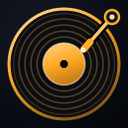
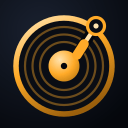
A tela dizia "(não existe)" sem saber, e o ícone sumia dentro da máscara
O DIAGNÓSTICO. A estante vazia afirmava "(não existe)" para toda pasta que
não abrisse. "Não existe" e "sem permissão" pedem consertos OPOSTOS, e a
tela mandava procurar a pasta que já está lá. O sceIoDopen devolve um
código dizendo qual é, e nós o jogávamos fora.

Agora ele é guardado e mostrado, com nome e número — 0x80010002 não
existe, 0x8001000D sem permissão, 0x80010013 só leitura. E, mais decisivo:
a tela sonda o DISPOSITIVO. Se `ux0:` abre e `ux0:music` não, a pasta é que
não está lá; se nem `ux0:` abre, o problema não tem relação com música e
nenhuma mudança de pasta conserta. As duas se parecem na tela e pedem
consertos sem relação nenhuma, então a tela passa a separá-las — e lista o
que viu na raiz, que responde sozinho se a pasta existe.

Isto foi escrito porque o relatório em arquivo NÃO apareceu no cartão: se
gravar falha, a tela precisa bastar.

O ÍCONE. Gerei três direções, mascarei em círculo como o sistema faz e
olhei no tamanho REAL da bolha (~60 px). O que a comparação mostrou:
o pivô do braço ficava fora do círculo e era cortado pela metade, e a
60 px traço fino e aro fino somem. O novo tem o disco com 16 px de folga
até a borda, o braço inteiro dentro do raio que a máscara preserva, aro
grosso e rótulo grande. Vinil continua preto — o contraste vem do aro e
do rótulo, que é onde a luz pega num disco.

A LIVEAREA ganhou profundidade (brilho quente, vinheta, o braço) em vez
do disco chapado, e o nome perdeu a caixa inconsistente: era "STYLUS
[…]

diff --git a/src/ui.c b/src/ui.c
@@ -1,4 +1,5 @@
 #include "ui.h"
+#include "fsutil.h"
 #include "paths.h"
 #include "ui_layout.h"
 #include "sides.h"
@@ -773,13 +774,60 @@ static void shelf_empty(Ui *u, Library *lib)
     int y = 218;
     for (int i = 0; i < lib->nroots && i < 6; i++) {
         char line[MAX_PATH_LEN + 32];
-        snprintf(line, sizeof(line), "%s   %s", lib->roots[i].path,
-                 lib->roots[i].opened ? "(abriu)" : "(não existe)");
+        /* NÃO diz "não existe" sem saber: "não existe" e "sem permissão"
+           pedem consertos opostos, e a tela mandava procurar a pasta que já
+           estava lá. Agora mostra o que o sistema respondeu, com o código —
+           que é o que dá para me repassar quando nada mais explica. */
+        if (lib->roots[i].opened)
+            snprintf(line, sizeof(line), "%s   (abriu)", lib->roots[i].path);
+        else
+            snprintf(line, sizeof(line), "%s   %s  [0x%08X]",
+                     lib->roots[i].path, scan_err_str(lib->roots[i].err),
+                     (unsigned)lib->roots[i].err);
         text_elided(u, (int)PAD_X + 12, y, lib->roots[i].opened ? COL_TEXT : COL_TEXT_FAINT,
                     0.54f, SCRW - 2 * PAD_X - 12, line);
         y += 22;
     }
-    y += 14;
+    /* A PERGUNTA DECISIVA, respondida na tela: o DISPOSITIVO abre?
+
+       Se `ux0:` abre e `ux0:music` não, a pasta é que não está lá. Se nem
+       `ux0:` abre, o problema não tem nada a ver com música — é o caminho
+       inteiro, e nenhuma mudança de pasta conserta. As duas coisas se
+       parecem na tela ("não achou nada") e pedem consertos que não têm
+       relação, então a tela passa a separá-las.
+
+       E LISTA o que viu ali: se o app enxerga "app", "data", "music" na
+       raiz, a pasta existe e o problema é outro. */
+    y += 12;
+    {
+        int e = 0;
+        DirIter *dev = dir_open_err("ux0:", &e);
+        if (!dev) {
+            char l[160];
+            snprintf(l, sizeof(l), "ux0: (o cartão) tambem NAO abre: %s  [0x%08X]",
+                     scan_err_str(e), (unsigned)e);
+            text_elided(u, (int)PAD_X, y, COL_ALARM, 0.55f, SCRW - 2 * PAD_X, l);
+            y += 22;
+        } else {
+            char l[420];
+            size_t n = (size_t)snprintf(l, sizeof(l), "ux0: abre, e tem: ");
+            const char *nome;
+            int isdir, vistos = 0;
+            while (vistos < 8 && dir_next(dev, &nome, &isdir)) {
+                if (nome[0] == '.') continue;
+                n += (size_t)snprintf(l + n, sizeof(l) - n, "%s%s",
+                                      vistos ? ", " : "", nome);
+                vistos++;
+                if (n > sizeof(l) - 40) break;
+            }
+            if (!vistos) snprintf(l, sizeof(l), "ux0: abre, mas esta VAZIO");
+            dir_close(dev);
+            text_elided(u, (int)PAD_X, y, COL_TEXT, 0.55f, SCRW - 2 * PAD_X, l);
+            y += 22;
+        }
+    }
+
+    y += 8;
     text(u, (int)PAD_X, y, COL_TEXT_DIM, 0.54f,
          "ponha a música em ux0:music/Artista/Album/*.mp3 — ou escreva as suas");
     /* o caminho vem do paths.h: é ESTA linha que a pessoa vai digitar quando

diff --git a/src/library.c b/src/library.c
@@ -295,8 +295,16 @@ static void scan_dir(Library *lib, int root_idx, const char *abs, const char *re
     /* dir_open, não opendir: no aparelho o opendir devolveu NULL para
        "ux0:music" nas três formas, e a API do sistema não tem essa dúvida.
        Ver a nota grande no fsutil.h. */
-    DirIter *d = dir_open(abs);
-    if (!d) return;
+    int erro = 0;
+    DirIter *d = dir_open_err(abs, &erro);
+    if (!d) {
+        /* guarda o motivo NA RAIZ, não numa subpasta qualquer: é a raiz que
+           a tela mostra, e uma subpasta que some no meio da varredura não é
+           a mesma história que a raiz não abrir */
+        if (depth == 0 && root_idx >= 0 && root_idx < lib->nroots)
+            lib->roots[root_idx].err = erro;
+        return;
+    }
     lib->dirs_seen++;
     if (lib->progress && (lib->dirs_seen % 8) == 0)
         lib->progress(lib->progress_ud, abs, lib->files_seen);
@@ -445,6 +453,31 @@ int library_scan(Library *lib)
     return 0;
 }
 
+/* Os códigos que o sceIo* devolve, nos casos que importam aqui.
+
+   "não existe" e "sem permissão" pedem consertos OPOSTOS, e a tela dizia
+   "(não existe)" para os dois — mandando a pessoa procurar a pasta que já
+   está lá. Um número que ninguém sabe ler não serve; o nome, sim. */
+const char *scan_err_str(int err)
+{
+    if (err == 0) return "";
+    switch ((unsigned)err) {
+    case 0x80010002u: return "não existe";
+    case 0x8001000Du: return "sem permissão";
+    case 0x80010013u: return "só leitura";
+    case 0x80010014u: return "dispositivo ocupado";
+    case 0x80010016u: return "caminho inválido";
+    case 0x80010018u: return "não é uma pasta";
+    case 0x8001001Cu: return "sem memória";
+    case 0x80010024u: return "arquivos demais abertos";
+    /* no PC os erros são os do errno, pequenos */
+    case 2:  return "não existe";
+    case 13: return "sem permissão";
+    case 20: return "não é uma pasta";
+    default: return "erro desconhecido";
+    }
+}
+
 void library_report(const Library *lib, const char *path)
 {
     if (!lib || !path) return;
@@ -464,8 +497,12 @@ void library_report(const Library *lib, const char *path)
             lib->roots_from_config ? " (de roots.txt)" : " (padrao)");
     for (int i = 0; i < lib->nroots; i++) {
         const ScanRoot *r = &lib->roots[i];
-        fprintf(f, "  [%c] %-28s audio=%d outros=%d\n",
-                r->opened ? 'x' : ' ', r->path, r->audio, r->other);
+        if (r->opened)
+            fprintf(f, "  [x] %-28s audio=%d outros=%d\n",
+                    r->path, r->audio, r->other);
+        else
+            fprintf(f, "  [ ] %-28s NAO ABRIU: 0x%08X (%s)\n",
+                    r->path, (unsigned)r->err, scan_err_str(r->err));
     }
     fprintf(f, "pastas      %d\n", lib->dirs_seen);
     fprintf(f, "arquivos    %d  (audio %d)\n", lib->files_seen, lib->audio_found);

diff --git a/src/fsutil.c b/src/fsutil.c
@@ -5,6 +5,7 @@
 #include <sys/stat.h>
 #include <stdio.h>
 #include <stdlib.h>
+#include <errno.h>
 
 size_t path_join(char *out, size_t cap, const char *parent, const char *child)
 {
@@ -81,6 +82,9 @@ int mkdir_p(const char *path)
 
 /* ---- percorrer uma pasta (ver a nota grande no fsutil.h) ---- */
 
+DirIter *dir_open(const char *path) { return dir_open_err(path, NULL); }
+
+
 #ifdef __vita__
 
 #include <psp2/io/dirent.h>
@@ -91,11 +95,12 @@ struct DirIter {
     SceIoDirent ent;
 };
 
-DirIter *dir_open(const char *path)
+DirIter *dir_open_err(const char *path, int *err)
 {
+    if (err) *err = 0;
     if (!path || !*path) return NULL;
     SceUID fd = sceIoDopen(path);
-    if (fd < 0) return NULL;
+    if (fd < 0) { if (err) *err = (int)fd; return NULL; }
     DirIter *it = calloc(1, sizeof(*it));
     if (!it) { sceIoDclose(fd); return NULL; }
     it->fd = fd;
@@ -128,11 +133,12 @@ struct DirIter {
     char base[1024];
 };
 
-DirIter *dir_open(const char *path)
+DirIter *dir_open_err(const char *path, int *err)
 {
+    if (err) *err = 0;
     if (!path || !*path) return NULL;
     DIR *d = opendir(path);
-    if (!d) return NULL;
+    if (!d) { if (err) *err = errno; return NULL; }
     DirIter *it = calloc(1, sizeof(*it));
     if (!it) { closedir(d); return NULL; }
     it->d = d;

diff --git a/src/library.h b/src/library.h
@@ -57,6 +57,7 @@ struct Album {
 typedef struct {
     char path[MAX_PATH_LEN];
     bool opened;      /* o diretório abriu */
+    int  err;         /* o que o sistema disse quando NÃO abriu (0 = abriu) */
     int  audio;       /* arquivos de áudio achados aqui */
     int  other;       /* arquivos ignorados (extensão desconhecida) */
 } ScanRoot;
@@ -106,6 +107,9 @@ void library_status(const Library *lib, char *out, size_t cap);
 
    É pequeno, roda uma vez por arranque, e nunca falha o arranque. */
 void library_report(const Library *lib, const char *path);
+
+/* O que o sistema disse, em palavra. Devolve "" quando abriu. */
+const char *scan_err_str(int err);
 
 /* Lê as tags (título, número, duração) do álbum. Caro: uma abertura de arquivo
    por faixa. NÃO reordena — a ordem sai do nome do arquivo na varredura, e

diff --git a/src/fsutil.h b/src/fsutil.h
@@ -48,6 +48,15 @@ int dir_exists(const char *path);
 typedef struct DirIter DirIter;
 
 DirIter *dir_open(const char *path);
+
+/* Igual, mas guarda em `*err` o que o sistema disse quando NÃO abriu.
+
+   Sem isto a tela dizia "(não existe)" para toda pasta que não abrisse —
+   afirmando uma causa que ninguém conferiu. No Vita o sceIoDopen devolve um
+   código: 0x80010002 é "não existe", 0x8001000D é "sem permissão",
+   0x80010013 é "só leitura", e há outros. Saber QUAL transforma adivinhação
+   em conserto. */
+DirIter *dir_open_err(const char *path, int *err);
 /* Próxima entrada. Devolve 0 quando acaba. `*isdir` diz o que é.
    `name` aponta para memória do iterador: vale até a próxima chamada. */
 int      dir_next(DirIter *it, const char **name, int *isdir);
